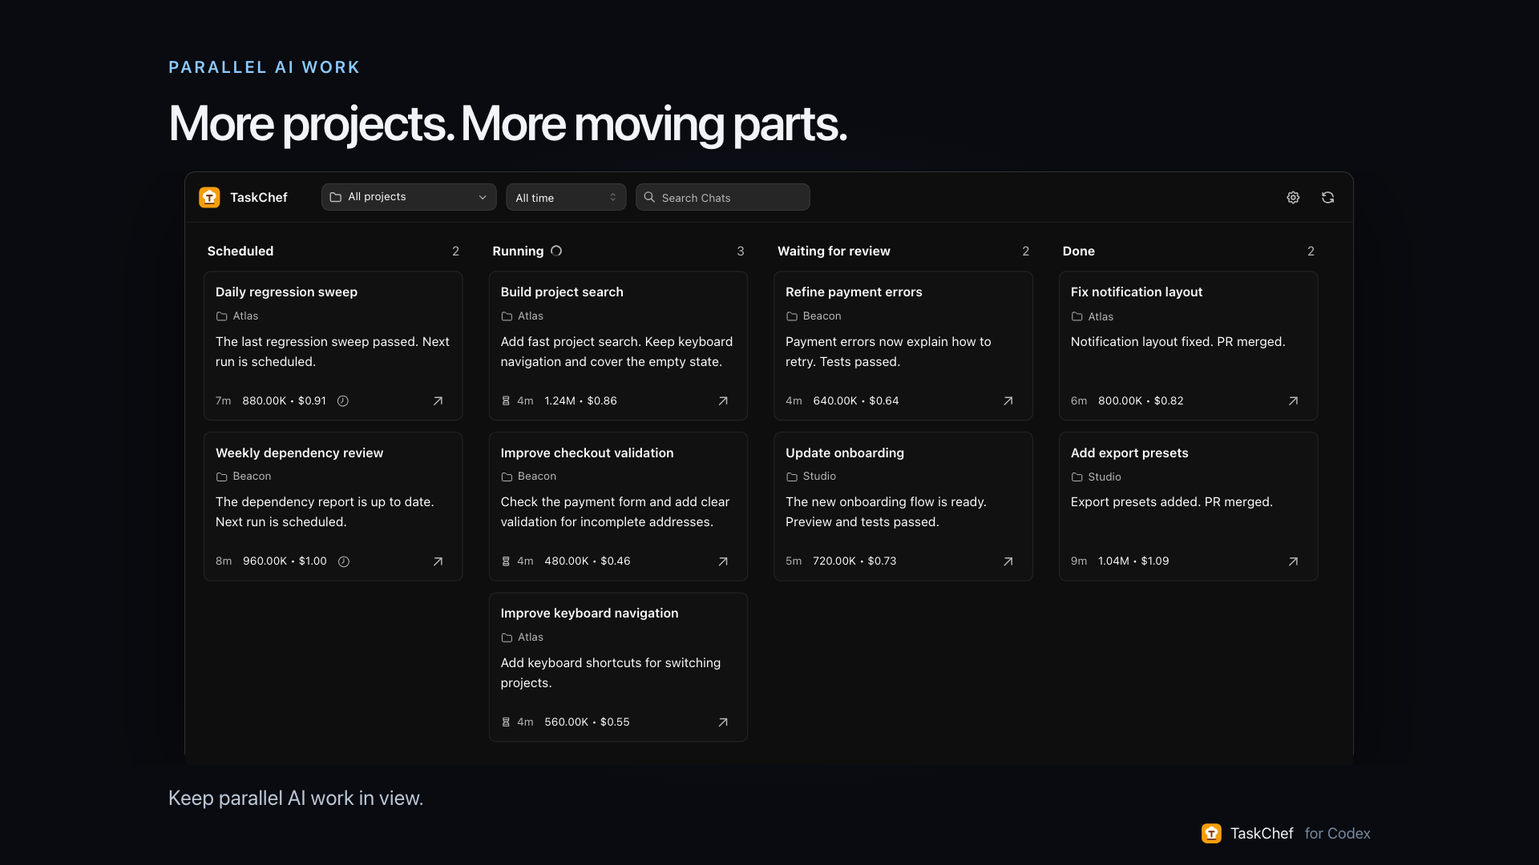
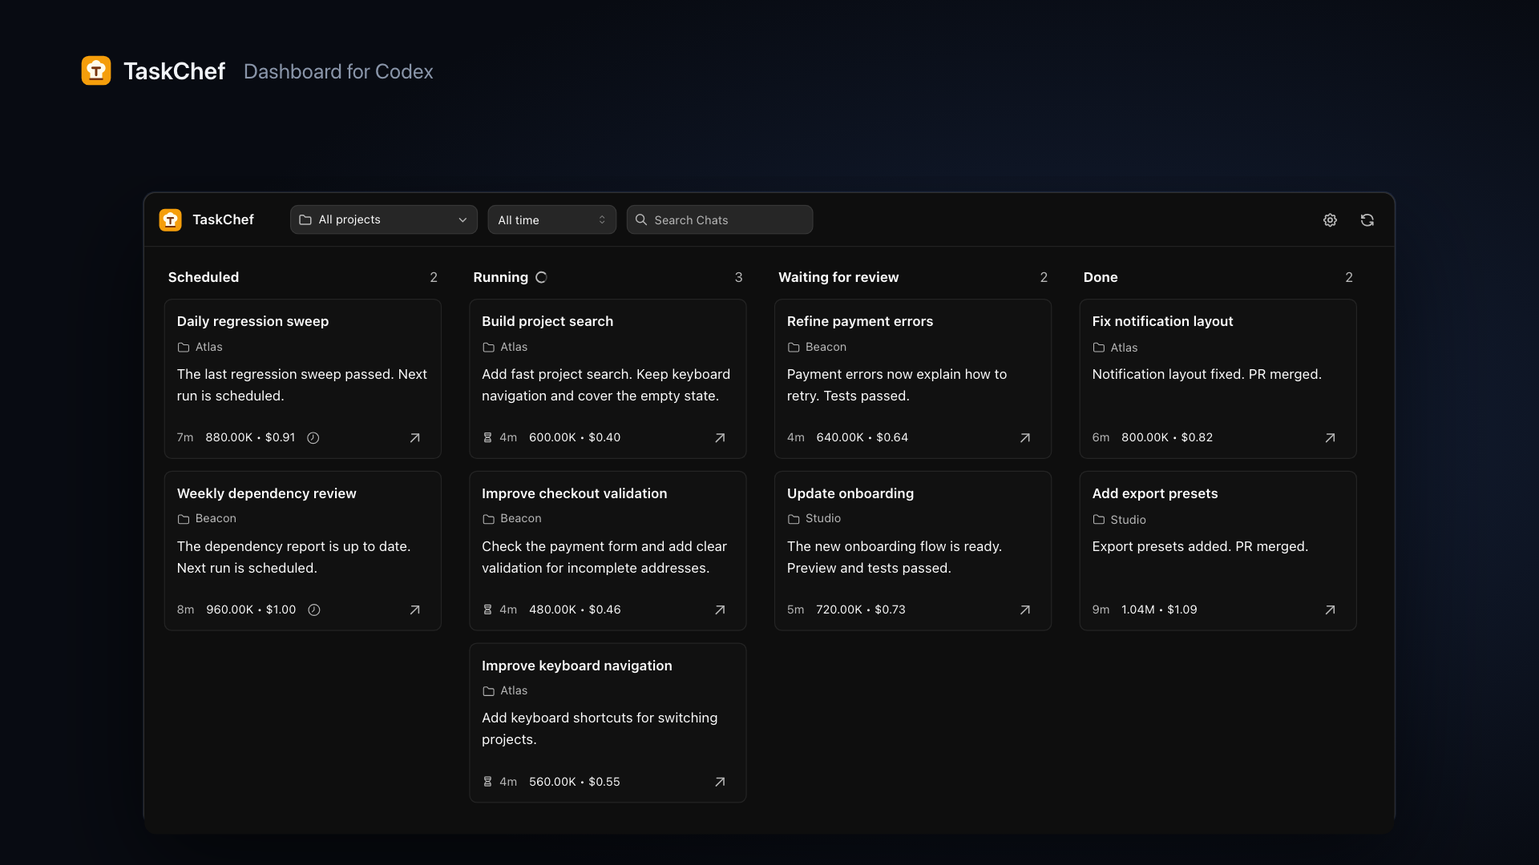
chore(video): implement approved full launch film

diff --git a/video/Launch.tsx b/video/Launch.tsx
@@ -1,18 +1,73 @@
-import { Sequence, useVideoConfig } from 'remotion';
-import { Opening } from './Opening';
-import { Review } from './Review';
-import { Usage } from './Usage';
-import { Merge } from './Merge';
-import { Focus } from './Focus';
-import { Closing } from './Closing';
-export function Launch() {
+import type { CSSProperties, ReactNode } from 'react';
+import { Audio } from '@remotion/media';
+import { AbsoluteFill, Easing, Img, Sequence, interpolate, staticFile, useCurrentFrame, useVideoConfig } from 'remotion';
+import { NextTaskDetail } from '../src/mcp-app/react/NextTaskDetail';
+import { themeVariables, visualTheme } from '../src/mcp-app/react/themes';
+import { ProductBoard } from './Frame';
+import { FloatingChats } from './OpeningStudy';
+import { demoTasks, usage } from './demo';
+
+const clamp = { extrapolateLeft: 'clamp', extrapolateRight: 'clamp' } as const;
+const ease = Easing.bezier(.65, 0, .2, 1);
+const noop = () => {};
+
+function ChapterTitle({ children }: { children: ReactNode }) {
+  const frame = useCurrentFrame();
   const { fps } = useVideoConfig();
-  return <>
-    <Sequence name="Parallel projects" from={0} durationInFrames={6 * fps} premountFor={fps}><Opening /></Sequence>
-    <Sequence name="Running to review" from={6 * fps} durationInFrames={11 * fps} premountFor={fps}><Review /></Sequence>
-    <Sequence name="Turn and chat usage" from={17 * fps} durationInFrames={10 * fps} premountFor={fps}><Usage /></Sequence>
-    <Sequence name="PR merged to Done" from={27 * fps} durationInFrames={8 * fps} premountFor={fps}><Merge /></Sequence>
-    <Sequence name="Project focus" from={35 * fps} durationInFrames={6 * fps} premountFor={fps}><Focus /></Sequence>
-    <Sequence name="TaskChef" from={41 * fps} durationInFrames={4 * fps} premountFor={fps}><Closing /></Sequence>
-  </>;
+  return <div className="opening-section-title launch-title" style={{
+    opacity: interpolate(frame / fps, [0, .15, 2.1, 2.45], [0, 1, 1, 0], clamp),
+    translate: `${interpolate(frame / fps, [0, .4, 2.1, 2.45], [35, 0, 0, -100], { ...clamp, easing: ease })}px 0`,
+  }}>{children}</div>;
+}
+
+export function Launch() {
+  const frame = useCurrentFrame();
+  const { fps } = useVideoConfig();
+  const time = frame / fps;
+  // One camera and one board preserve spatial continuity across chapters.
+  const times = [2, 4.2, 4.8, 5.6, 6.8, 8.1, 8.7, 10.7, 11.5, 13.2, 13.8, 15.6, 16.4, 18.2, 19, 20.7, 21.5, 23.2, 23.7, 25.6, 26.4, 28.2, 28.7, 29.2, 29.9, 31];
+  const scales = [.62, .62, 1.22, 1.22, .62, .62, 3, 3, .62, .62, 2.4, 2.4, .62, .62, 2.3, 2.3, .62, .62, 2.4, 2.4, .62, .62, 2.8, 2.8, 1.22, 1.22];
+  const xs = [1050, 1050, 179, 179, 1050, 1050, -470, -470, 1050, 1050, -575, -575, 1050, 1050, -1157, -1157, 1050, 1050, -1325, -1325, 1050, 1050, 3, 3, 179, 179];
+  const ys = [320, 320, 240, 240, 320, 320, 30, 30, 320, 320, 80, 80, 320, 320, -422, -422, 320, 320, 80, 80, 320, 320, 220, 220, 240, 240];
+  const pose = (values: number[]) => interpolate(time, times, values, { ...clamp, easing: ease });
+  const phase = time >= 23.8 ? 'merged' : time >= 14 ? 'review' : 'running';
+  const move = phase === 'review' && time < 14.7 ? interpolate(time, [14, 14.7], [0, 1], { ...clamp, easing: ease })
+    : phase === 'merged' && time < 24.5 ? interpolate(time, [23.8, 24.5], [0, 1], { ...clamp, easing: ease }) : undefined;
+  const live = interpolate(time, [8.3, 10.7], [0, 1], clamp);
+  const liveUsage = usage(Math.round(600_000 + live * 640_000), .4 + live * .46);
+  const selected = time >= 28.6;
+  const filter = interpolate(time, [28.6, 29.2], [0, 1], { ...clamp, easing: ease });
+  const fadeOther = interpolate(time, [28.25, 28.6], [1, 0], clamp);
+  const detail = time >= 18.2 && time < 20.9;
+  const usageRow = time < 19.9 ? 1 : 2;
+  return <AbsoluteFill className="film opening-study launch-film" style={themeVariables(visualTheme('codex', 'dark'), 'dark') as CSSProperties}>
+    <Audio name="Tech House vibes — Mixkit" src={staticFile('tech-house-vibes.mp3')} trimBefore={Math.round(1.52 * fps)} durationInFrames={34 * fps} premountFor={fps}
+      volume={interpolate(time, [0, .1, 32.8, 34], [0, .8, .8, 0], clamp)} />
+    <div className="opening-halo" style={{ translate: `${Math.sin(time * .7) * 90}px ${Math.cos(time * .5) * 35}px` }} />
+    {time >= 2 && time < 31 && <div className="opening-brand"><Img src={staticFile('taskchef-dark.svg')} alt="" />TaskChef <span>Dashboard for Codex</span></div>}
+    <Sequence name="Product identity" from={0} durationInFrames={2 * fps} premountFor={fps}>
+      <div className="opening-type"><div className="opening-identity"><div><Img src={staticFile('taskchef-dark.svg')} alt="" /><span>TaskChef</span></div><p>Dashboard for Codex</p></div></div>
+      <div className="opening-rails" style={{ rotate: '-12deg', translate: `${time * 180 - 240}px 0` }}><i /><i /><i /></div>
+      <FloatingChats time={time} heroUsage={usage(600_000, .4)} />
+    </Sequence>
+    {time >= 2 && time < 31 && <div className="opening-board-mask">
+      <div className="opening-board-stage" inert style={{ left: pose(xs), top: pose(ys) - 220, scale: pose(scales) }}>
+        <ProductBoard phase={phase} moveProgress={move} project={selected ? 'atlas' : ''} heroUsage={phase === 'running' ? liveUsage : undefined} filterProgress={selected ? filter : undefined} highlightProject={time >= 28 && time < 29.3}>
+          <style>{`.launch-film .film-product .mantine-Modal-content { max-height: 505px; }
+            .launch-film .taskchef-detail-usage tbody tr:nth-child(${usageRow}) { background: #8cc9ff20; }
+            ${demoTasks('merged').filter(task => task.project.id !== 'atlas').map(task => `.launch-film [data-chat-id="${task.id}"] { opacity: ${time >= 28.25 ? fadeOther : 1}; }`).join('\n')}`}</style>
+          {detail && <NextTaskDetail task={demoTasks('review')[0]} opened busy={false} error={null} onClose={noop} onOpenCodex={noop} />}
+        </ProductBoard>
+      </div>
+    </div>}
+    <Sequence name="Full board" from={2 * fps} durationInFrames={2.5 * fps} premountFor={fps}><ChapterTitle>Keep every<br />project<br /><span>in view.</span></ChapterTitle></Sequence>
+    <Sequence name="Running and live usage" from={6 * fps} durationInFrames={2.5 * fps} premountFor={fps}><ChapterTitle>See what’s<br /><span>running.</span></ChapterTitle></Sequence>
+    <Sequence name="Finished chat moves to review" from={11 * fps} durationInFrames={2.5 * fps} premountFor={fps}><ChapterTitle>Ready for<br /><span>your review.</span></ChapterTitle></Sequence>
+    <Sequence name="Turn and chat usage" from={16 * fps} durationInFrames={2.5 * fps} premountFor={fps}><ChapterTitle>Usage,<br /><span>turn by turn.</span></ChapterTitle></Sequence>
+    <Sequence name="Merged PR moves to Done" from={21 * fps} durationInFrames={2.5 * fps} premountFor={fps}><ChapterTitle>Merged.<br /><span>Done.</span></ChapterTitle></Sequence>
+    <Sequence name="Project filtering" from={26 * fps} durationInFrames={2.5 * fps} premountFor={fps}><ChapterTitle>Focus on<br /><span>one project.</span></ChapterTitle></Sequence>
+    <Sequence name="TaskChef closing" from={31 * fps} durationInFrames={3 * fps} premountFor={fps}>
+      <AbsoluteFill className="film film-closing"><div className="film-glow" /><div><Img src={staticFile('taskchef-dark.svg')} alt="" /><h1>TaskChef</h1><p>Dashboard for Codex</p><div className="film-url">taskchef.dev</div></div></AbsoluteFill>
+    </Sequence>
+  </AbsoluteFill>;
 }

diff --git a/video/Frame.tsx b/video/Frame.tsx
@@ -8,7 +8,8 @@ import { RelativeTimeProvider } from '../src/ui/components/RelativeTime';
 import { ProjectPicker } from '../src/mcp-app/react/ProjectPicker';
 import { themeVariables, visualTheme } from '../src/mcp-app/react/themes';
 const mark = staticFile('taskchef-dark.svg');
-import { DEMO_NOW, HERO_ID, LANES, PROJECTS, demoTasks, type Phase } from './demo';
+import { DEMO_NOW, HERO_ID, LANES, PROJECTS, demoTasks, usage, type Phase } from './demo';
+import type { SavedUsage } from '../src/ui/types';
 
 const theme = createTheme({ fontFamily: '-apple-system, BlinkMacSystemFont, "Segoe UI", sans-serif', headings: { fontFamily: 'inherit' }, colors: { dark: ['#dcdcdc', '#cdcdcd', '#afafaf', '#808080', '#414141', '#353535', '#282828', '#212121', '#181818', '#131313'] },
   components: { Modal: { defaultProps: { withinPortal: false, lockScroll: false, transitionProps: { duration: 0 } } } } });
@@ -29,9 +30,16 @@ export function FilmFrame({ eyebrow, title, children }: { eyebrow: string; title
   </AbsoluteFill>;
 }
 
-export function ProductBoard({ phase, project = '', moveProgress, children, highlightProject = false }: { phase: Phase; project?: string; moveProgress?: number; children?: ReactNode; highlightProject?: boolean }) {
+export function ProductBoard({ phase, project = '', moveProgress, children, highlightProject = false, heroUsage, filterProgress }: { phase: Phase; project?: string; moveProgress?: number; children?: ReactNode; highlightProject?: boolean; heroUsage?: SavedUsage; filterProgress?: number }) {
   const frame = useCurrentFrame();
   const tasks = demoTasks(phase, project);
+  if (heroUsage) {
+    const hero = tasks.find(task => task.id === HERO_ID);
+    if (hero) {
+      hero.turnUsage = heroUsage;
+      if (hero.sessionUsage) hero.sessionUsage = { ...hero.sessionUsage, latest: heroUsage, total: usage(4_080_000 + heroUsage.tokens.total_tokens, 2.86 + heroUsage.costUsd) };
+    }
+  }
   // Fix wall-clock labels and suppress the product's real-time FLIP animation.
   // The same destination card moves by a frame-driven transform in this film.
   const transform = moveProgress == null ? 'none' : `translate(${-312 * (1 - moveProgress)}px, ${-10 * Math.sin(Math.PI * moveProgress)}px)`;
@@ -39,6 +47,7 @@ export function ProductBoard({ phase, project = '', moveProgress, children, high
     <style>{`
       .film-product .taskchef-board-card { transform: none !important; }
       .film-product [data-chat-id="${HERO_ID}"] { transform: ${transform} !important; position: relative; z-index: 5; ${moveProgress != null && moveProgress < 1 ? 'box-shadow: 0 16px 35px #0008; border-color: #75b8ff;' : ''} }
+      ${filterProgress == null ? '' : `.film-product [data-chat-id="00000000-0000-7000-8000-000000000003"] { transform: translateY(${176 * (1 - filterProgress)}px) !important; }`}
       ${moveProgress == null ? '' : tasks.filter(task => task.id !== HERO_ID).map(task => {
         const offset = phase === 'review'
           ? task.status === 'working' ? 176 : task.status === 'needs_input' ? -176 : 0

diff --git a/video/OpeningStudy.tsx b/video/OpeningStudy.tsx
@@ -3,13 +3,14 @@ import { AbsoluteFill, Easing, Img, interpolate, staticFile, useCurrentFrame, us
 import type { CSSProperties } from 'react';
 import { ProductBoard } from './Frame';
 import { themeVariables, visualTheme } from '../src/mcp-app/react/themes';
+import type { SavedUsage } from '../src/ui/types';
 
 // Four-beat phrases from the chosen track; no change to the full film yet.
 const phrase = 240 / 122;
 const ease = Easing.bezier(.16, 1, .3, 1);
 const clamp = { extrapolateLeft: 'clamp', extrapolateRight: 'clamp' } as const;
 
-function FloatingChats({ time }: { time: number }) {
+export function FloatingChats({ time, heroUsage }: { time: number; heroUsage?: SavedUsage }) {
   return <div className="opening-floating-chats" inert>
     {[1, 2, 3].map((id, index) => <div key={id} className={`opening-fragment opening-fragment-${id}`} style={{
       top: 235 + index * 225,
@@ -17,7 +18,7 @@ function FloatingChats({ time }: { time: number }) {
       rotate: `${[-7, 5, -4][index] + Math.sin(time * 1.7 + index) * 1.5}deg`,
       translate: `${Math.sin(time * 1.2 + index) * 18 + 30}px ${Math.cos(time * 1.5 + index) * 12}px`,
       opacity: 1,
-    }}><ProductBoard phase="running" /></div>)}
+    }}><ProductBoard phase="running" heroUsage={heroUsage} /></div>)}
   </div>;
 }
 

diff --git a/video/demo.ts b/video/demo.ts
@@ -45,6 +45,9 @@ export function demoTasks(phase: Phase, project = ''): Task[] {
   hero.sessionUsage = { latest: hero.turnUsage, total: usage(5_320_000, 3.72), subagents: 0, pricingDate: '2026-01-01' };
   hero.pullRequests = phase === 'running' ? [] : [{ url: 'https://github.com/example/atlas/pull/42', title: 'Add project search', state: phase === 'merged' ? 'merged' : 'open', checks: 'passed' }];
   hero.detailPullRequests = hero.pullRequests;
+  if (phase !== 'running') {
+    hero.replyText = hero.replyExcerpt = hero.summary = `[PR #42](https://github.com/example/atlas/pull/42) is ${phase === 'merged' ? 'merged. Project search is complete.' : 'open. Project search is ready for review.'}`;
+  }
   const tasks = [hero,
     chat(2, 'Improve checkout validation', 'beacon', 'working', 'Check the payment form and add clear validation for incomplete addresses.', 'Checkout validation is ready for review.'),
     chat(3, 'Improve keyboard navigation', 'atlas', 'working', 'Add keyboard shortcuts for switching projects.', 'Project shortcuts are ready for review.'),

diff --git a/video/index.tsx b/video/index.tsx
@@ -20,9 +20,9 @@ for (const [key, value] of Object.entries(themeVariables(visualTheme('codex', 'd
 }
 
 registerRoot(() => <>
-  <Composition id="TaskChefOpening" component={OpeningStudy} durationInFrames={336} fps={30} width={1920} height={1080} />
-  <Composition id="TaskChefLaunch" component={Launch} durationInFrames={1350} fps={30} width={1920} height={1080} />
-  <Folder name="Scenes">
+  <Composition id="TaskChefLaunch" component={Launch} durationInFrames={1020} fps={30} width={1920} height={1080} />
+  <Folder name="Drafts">
+    <Composition id="TaskChefOpening" component={OpeningStudy} durationInFrames={336} fps={30} width={1920} height={1080} />
     <Composition id="ParallelProjects" component={Opening} durationInFrames={180} fps={30} width={1920} height={1080} />
     <Composition id="RunningToReview" component={Review} durationInFrames={330} fps={30} width={1920} height={1080} />
     <Composition id="TurnAndChatUsage" component={Usage} durationInFrames={300} fps={30} width={1920} height={1080} />

diff --git a/video/film.css b/video/film.css
@@ -49,6 +49,10 @@
 .opening-board-stage .film-product { box-shadow: 0 40px 100px #0009, 0 0 0 1px #8eaffb22; }
 .opening-section-title { position: absolute; z-index: 3; left: 100px; top: 330px; font-size: 144px; line-height: 1.03; font-weight: 600; letter-spacing: -6px; }
 .opening-section-title span { color: #a9cbff; }
+.launch-title { font-size: 124px; }
+.launch-film .film-closing h1 { font-size: 132px; }
+.launch-film .film-closing p { font-size: 54px; }
+.launch-film .film-url { font-size: 44px; }
 .opening-fragment { position: absolute; width: 300px; height: 164px; scale: 1.2; transform-origin: top left; pointer-events: none; }
 .opening-fragment .film-product { width: 300px; height: 164px; border: 0; background: transparent; }
 .opening-fragment .taskchef-app-shell { min-height: 0; background: transparent; }

diff --git a/docs/launch/video-script.md b/docs/launch/video-script.md
@@ -1,39 +1,30 @@
 # TaskChef launch video — final script
 
-**Length:** 45 seconds. **Format:** 1920 × 1080, 30 fps.
-**Positioning:** Keep parallel AI work in view.
+**Length:** 34 seconds. **Format:** 1920 × 1080, 30 fps.
+**Positioning:** Dashboard for Codex. Keep every project in view.
 
-The preview is a silent, text-led film. The narration below is ready to record
-if a voice track is wanted. All product views use TaskChef's React components,
-styles, and Codex dark palette. All chats, projects, usage, and PRs are synthetic.
+The film uses the actual TaskChef React components, controls, mark and Codex
+palette. All chats, projects, usage and PRs are synthetic. Music is included;
+there is no narration or screen recording.
 
-| Time | Narration | Picture and on-screen text |
+| Time | Title | Picture and action |
 | --- | --- | --- |
-| 00–06 | AI lets you work on several projects at once. Keeping track gets harder. | The actual four-column board fades in with nine fully visible chats from Atlas, Beacon, and Studio. Scheduled stays on the left. **More projects. More moving parts.** |
-| 06–11 | TaskChef keeps scheduled runs and Codex chats on one board. | Start wide on Scheduled, Running, Waiting for review, Done. Push into Running and Waiting for review. **See what is running.** The main chat is “Build project search” in Running. |
-| 11–17 | When a run finishes, its card moves to Waiting for review. | Animate the same card across the board. Its prompt becomes its result. Neighboring cards make room. Pull back to the nine-chat board. **Ready for your review.** |
-| 17–27 | Check tokens and estimated API cost for the latest turn—and the whole chat. | Open the real Details popup. Zoom into the Usage table: Latest turn **1.24M · $0.86**; Total chat **5.32M · $3.72**. Keep the API estimate footnote visible, then pull back to the popup. **Know the usage behind the work.** |
-| 27–30 | Review it. Merge it. | Start wide, then zoom into Waiting for review and Done. The main card is in Waiting for review. Latest turn PR #42 is open, with passing checks. |
-| 30–35 | Merge the pull request. Watch the card move to Done. | The PR glyph changes to merged. Animate the same card into Done, then pull back to the full board. **Merged. Moved to Done.** |
-| 35–41 | Filter by project when you need to focus. | Zoom into and highlight the real project picker. Change All projects to Atlas. Other projects disappear. Pull back to Atlas's scheduled, running, and done chats. **One project. Your full attention.** |
-| 41–45 | TaskChef. Keep parallel AI work in view. | Product mark, TaskChef, positioning line, **taskchef.dev**. |
+| 0–2s | TaskChef · Dashboard for Codex | Logo, name, descriptor and native cards visible from frame zero. Cards move gently beside the identity. |
+| 2–6s | Keep every project in view. | Large title beside the board, then move into its full view. Scheduled, Running, Waiting for review and Done remain visible with nine chats. No Running close-up in this chapter. |
+| 6–11s | See what’s running. | Move into Running. Follow Build project search as latest-turn tokens rise from 600K to 1.24M and estimated API-equivalent cost rises from $0.40 to $0.86. |
+| 11–16s | Ready for your review. | The chat finishes. Follow the same card into Waiting for review while neighboring cards make room. Its prompt becomes its result. |
+| 16–21s | Usage, turn by turn. | Open the native Details popup. Highlight Latest turn (1.24M · $0.86), then Total chat (5.32M · $3.72). Keep the native API estimate note visible. |
+| 21–26s | Merged. Done. | Latest-turn PR #42 changes from open to merged. Its native link, result text and glyph update as the card moves into Done. |
+| 26–31s | Focus on one project. | Highlight the real project picker. Change All projects to Atlas. Other projects fade out and matching cards reposition. Scheduled remains visible. |
+| 31–34s | TaskChef · Dashboard for Codex | Logo, identity and taskchef.dev. Music fades to the ending. |
 
-The end card uses the intended new home, `taskchef.dev`. The website is still
-being prepared. Publish this cut only after its homepage is live.
+Each chapter title stays fully readable for about two seconds before exiting
+into the product view. The camera carries directly from a feature close-up
+into the right-side board pose for the next title. There is no intermediate
+full-board stop between feature chapters. The board overview is a separate
+chapter; Running and live usage have their own close-up.
 
-## Production rules
-
-- Render the UI from code. Use no screen recordings or screenshot stand-ins.
-- Keep the main chat's identity throughout both moves and the usage close-up.
-- Only the latest turn's confirmed merged PR drives the move to Done.
-- “Merged” describes the PR. Do not claim that merging deploys the change.
-- API-equivalent cost is an estimate. It is not a subscription charge.
-- Use no real chat text, private project names, account data, or personal images.
-- Do not add explanatory UI helper text for ordinary interactions.
-
-## Preview and editing
-
-From the repository root:
+## Preview
 
 ```sh
 npm ci
@@ -42,44 +33,60 @@ npm run video:check
 npm run video:preview
 ```
 
-Open `http://localhost:8090/TaskChefLaunch`. Play or scrub the 45-second
-composition. The Scenes folder also exposes each chapter independently.
-Frame 330 starts Running → Waiting for review; frame 900 starts
-Waiting for review → Done. Each move lasts 30 frames.
+Open `http://localhost:8090/TaskChefLaunch` and press Play with sound enabled.
+The full composition is 1,020 frames. Studio exposes each chapter title as a
+named timeline item. The Drafts folder retains earlier scene studies; those
+are not the current full cut.
 
-Remotion has a separate, locked development package in `video/`. This avoids
-changing the plugin's dependencies. The source is in `video/`. It imports
-`TaskBoard`, `ProjectPicker`,
-`NextTaskDetail`, their providers, the product mark, and the production CSS.
-The header uses the same Mantine controls as the native app. The host bridge is
-not mounted; the film makes no MCP or GitHub requests.
+Key review points at 30 fps:
 
-The film uses a fixed four-column viewport (1280 × 648 UI pixels). Its overview
-fits all nine chats, including the third card row. Frame-driven camera poses
-push from the 1.14× overview into 2.4× card pairs, the 2.3× usage table, and the
-2.8× project picker, then pull back between features. The viewport masks the
-close-ups so they do not cover the headline or footer. Product controls are
-noninteractive within the film; use the Studio playback controls.
+- Frame 0: complete product identity, without fade-in.
+- Frame 153: full board with nine chats and Scheduled.
+- Frames 270 and 318: changing native card token/cost values.
+- Frames 420–441: Running → Waiting for review.
+- Frames 585 and 609: latest-turn and total-chat usage highlights.
+- Frames 714–735: PR merged → Done.
+- Frames 847–876: project selection, fading and repositioning.
+- Frame 960: ending.
 
-Card dimensions, frame-driven
-transforms, and synthetic clock/usage labels keep playback and scrubbing
-repeatable. These overrides apply only inside `.film-product`. The product's
-280 ms live animation is slowed to one second in the film so the move is easy
-to follow. No product behavior or installed plugin is changed.
+The shared camera and board preserve spatial continuity. `ProductBoard` reuses
+`TaskBoard`, `ProjectPicker`, Mantine controls, native theme and production CSS;
+`NextTaskDetail` supplies the actual usage table. Frame-driven overrides keep
+motion, spinner rotation, clock labels and usage values repeatable. They apply
+only to the video. The host bridge is not mounted and the film makes no MCP or
+GitHub requests. No product behavior or installed plugin changes.
 
-The preview has no music or voice track. To export the current silent cut:
+## Music and export
+
+**Tech House vibes**, Alejandro Magaña (A. M.), from the
+[official Mixkit catalog](https://mixkit.co/free-stock-music/electronica/).
+The [Stock Music Free License](https://mixkit.co/license/modal/musicFree/)
+allows commercial online videos and marketing ads. Raw audio downloads into
+ignored `video/public/` with a fixed checksum; it is not committed or included
+in the plugin package. `video/prepare-assets.mjs` reuses the local copy. First
+preview startup needs network access. Do not claim authorship or register the
+music with a rights-management service.
+
+When an export is requested:
 
 ```sh
 npm run video:render
 ```
 
-Output: `video/out/taskchef-launch.mp4` (ignored by Git and excluded from the
-published plugin). Remotion may download its render browser on the first export.
-Review Remotion's current [license terms](https://www.remotion.dev/docs/license)
-before commercial distribution if the producer's eligibility changes.
+Output: `video/out/taskchef-launch.mp4`, ignored by Git. The isolated locked
+`video/` package and launch docs are excluded from the published plugin. Review
+Remotion's [license terms](https://www.remotion.dev/docs/license) before
+commercial distribution if the producer's eligibility changes.
 
-## Visual reference
+## Publication and accuracy
 
-The [Strata launch video](https://x.com/l0gicgate/status/2109739837435814207)
-informed the alternation between overview and enlarged feature shots. TaskChef
-keeps its own UI and its own story. No footage or assets are copied from it.
+- Publish the video only after the taskchef.dev homepage is live.
+- The latest turn's confirmed merged PR drives the move to Done.
+- Merged describes the PR; it does not claim deployment.
+- API-equivalent cost is an estimate, not a subscription charge. Preserve the
+  native estimate note in the detail view.
+- Use no private chats, real account data, personal images or screen recordings.
+- Add no explanatory UI helper text for ordinary interactions.
+
+The [Strata reference](https://x.com/l0gicgate/status/2109739837435814207)
+informed framing and pacing. No footage or assets are copied from it.

diff --git a/docs/launch/opening-study.md b/docs/launch/opening-study.md
@@ -1,6 +1,7 @@
 # Opening study
 
-Review this 11.2-second composition before rebuilding the full launch film.
+This archived 11.2-second opening study remains in the Drafts folder.
+The approved full film is documented in [video-script.md](video-script.md).
 
 ```sh
 npm ci
@@ -9,7 +10,7 @@ npm run video:preview
 ```
 
 Open `http://localhost:8090/TaskChefOpening` and press Play with sound on.
-The existing `TaskChefLaunch` cut is unchanged.
+Use `TaskChefLaunch` to review the current 34-second full film.
 
 When an export is requested, `npm --prefix video run render:opening` exports
 this opening to `video/out/taskchef-opening.mp4`. `npm run video:render`
